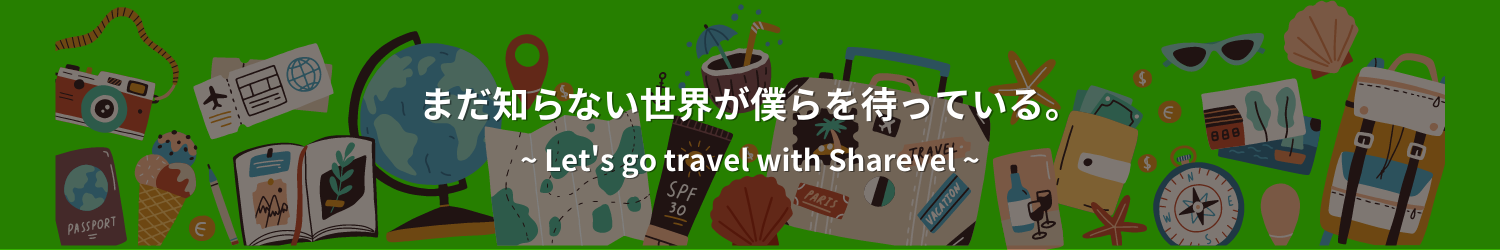
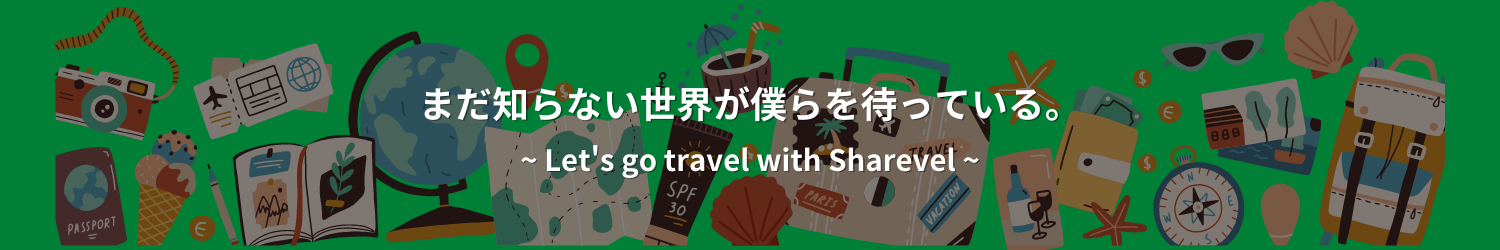
create model-spec for user post question

diff --git a/app/assets/stylesheets/application.scss b/app/assets/stylesheets/application.scss
@@ -285,9 +285,10 @@ footer{
 
 //投稿一覧 *user/show question/showでも一部使用
 .list-header-image{
-  background-image: url(background_image3.png);
+  background-image: url(background_image.png);
   background-size: cover;
   width: 100%;
+  height: 220px;
 }
 
 .list-page-container{

diff --git a/spec/models/post_spec.rb b/spec/models/post_spec.rb
@@ -1,5 +1,59 @@
 require 'rails_helper'
 
 RSpec.describe Post, type: :model do
-
+  describe "正常系の確認" do
+    let!(:user){create(:user)}
+    it "正しく投稿を登録できる" do
+      post = Post.new(
+      user_id: 1,
+      title: "title of post",
+      location: "location of post",
+      body: "body of post",
+      post_image: Rack::Test::UploadedFile.new(File.join(Rails.root, 'spec/fixtures/images/test.jpg'))
+      )
+      
+      expect(post).to be_valid
+      post.save
+      registed_post = Post.find(1);
+      
+      expect(registed_post.user_id).to eq(1)
+      expect(registed_post.title).to eq("title of post")
+      expect(registed_post.location).to eq("location of post")
+      expect(registed_post.body).to eq("body of post")
+    end
+  end
+  
+  describe "バリデーションで無効になるパターン" do
+    let!(:user){create(:user)}
+    let(:post){build(:post)}
+    context "存在性に関して" do 
+      it "titleが空" do
+        post.title = nil
+        expect(post).to be_invalid
+      end
+  
+      it "post_imageが空" do
+        post.post_image = nil
+        expect(post).to be_invalid
+      end
+    end
+    
+    context "文字数の制限に関して" do
+      
+      it "titleが30文字より大きい" do
+        post.title = "a"* 31
+        expect(post).to be_invalid
+      end  
+      
+      it "bodyが300文字より大きい" do
+        post.body = "a"* 301
+        expect(post).to be_invalid
+      end  
+      
+      it "locationが30文字より大きい" do
+        post.location = "a"* 31
+        expect(post).to be_invalid
+      end  
+    end
+  end
 end

diff --git a/spec/models/question_spec.rb b/spec/models/question_spec.rb
@@ -1,5 +1,51 @@
 require 'rails_helper'
 
 RSpec.describe Question, type: :model do
-  pending "add some examples to (or delete) #{__FILE__}"
+  describe "正常系の確認" do
+    let!(:user){create(:user)}
+    it "正しく質問を登録できる" do
+      question = Question.new(
+      user_id: user.id,
+      question_title: "title of question",
+      question_body: "body of question",
+      )
+      
+      expect(question).to be_valid
+      question.save
+      registed_question = Question.find(1);
+      
+      expect(registed_question.user_id).to eq(1)
+      expect(registed_question.question_title).to eq("title of question")
+      expect(registed_question.question_body).to eq("body of question")
+    end
+  end
+  describe "バリデーションで無効になるパターン" do
+    let!(:user){create(:user)}
+    let(:question){build(:question)}
+    context "存在性に関して" do 
+      it "question_titleが空" do
+       question.question_title = nil
+        expect(question).to be_invalid
+      end
+  
+      it "question_bodyが空" do
+        question.question_body = nil
+        expect(question).to be_invalid
+      end
+    end
+    
+    context "文字数の制限に関して" do
+      
+      it "question_titleが30文字より大きい" do
+        question.question_title = "a"* 31
+        expect(question).to be_invalid
+      end  
+      
+      it "bodyが300文字より大きい" do
+        question.question_body = "a"* 301
+        expect(question).to be_invalid
+      end  
+    end
+  end
 end
+

diff --git a/spec/factories/posts.rb b/spec/factories/posts.rb
@@ -1,7 +1,10 @@
 FactoryBot.define do
   factory :post do
     user_id               {1}
-    title                 {"Title of Post"}
-    profile_image_id      {"password"}
+    title                 {"title of post"}
+    location              {"location of post"}
+    body                  {"body of post"}
+    post_image            {Rack::Test::UploadedFile.new(File.join(Rails.root, 'spec/fixtures/images/test.jpg'))}
+
   end
 end

diff --git a/app/models/question.rb b/app/models/question.rb
@@ -1,6 +1,6 @@
 class Question < ApplicationRecord
   belongs_to :user
   has_many :answers, dependent: :destroy
-  validates :question_title, presence: true, length: {maximum: 20 }
-  validates :question_body, presence: true, length: {maximum: 255 }
+  validates :question_title, presence: true, length: {maximum: 30 }
+  validates :question_body, presence: true, length: {maximum: 300 }
 end

diff --git a/app/models/post.rb b/app/models/post.rb
@@ -8,5 +8,6 @@ class Post < ApplicationRecord
     validates :title, presence: true, length: {maximum: 30 }
     validates :post_image, presence: true
     validates :body, length: {maximum: 300}
+    validates :location, length: {maximum: 30 }
 end
   

diff --git a/spec/factories/questions.rb b/spec/factories/questions.rb
@@ -1,0 +1,7 @@
+FactoryBot.define do
+  factory :question do
+    user_id               {1}
+    question_title        {"title of question"}
+    question_body         {"body of question"}
+  end
+end
